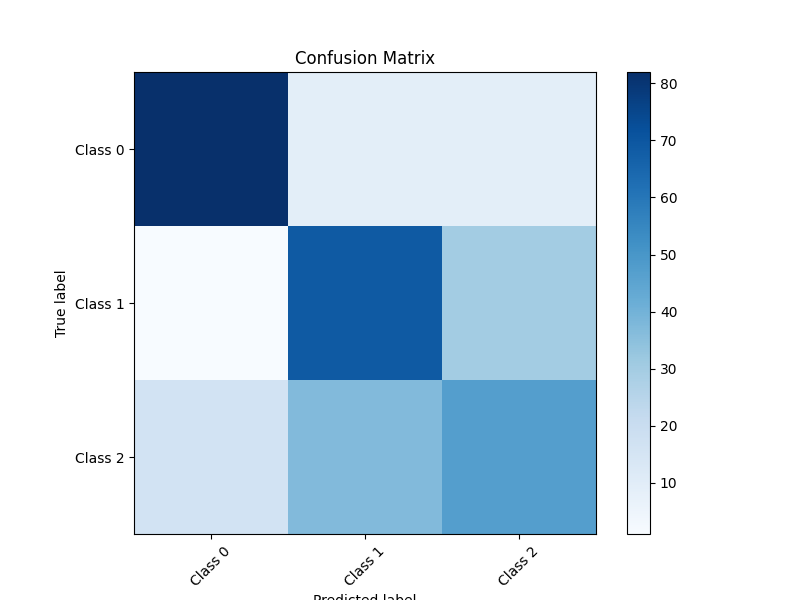
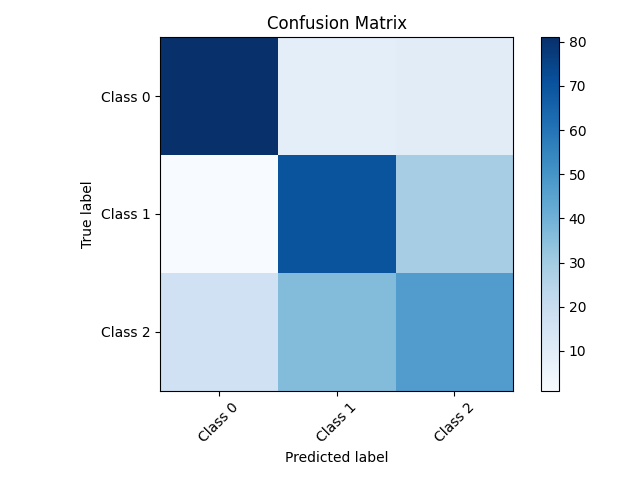
going sleep

diff --git a/homework 2/homework_model_modification.py b/homework 2/homework_model_modification.py
@@ -179,7 +179,6 @@ def plot_confusion_matrix(y_true, y_pred, classes):
     :param classes: Названия классов
     """
     cm = confusion_matrix(y_true, y_pred)
-    plt.figure(figsize=(8, 6))
     plt.imshow(cm, interpolation='nearest', cmap=plt.cm.Blues)
     plt.title("Confusion Matrix")
     plt.colorbar()
@@ -188,6 +187,7 @@ def plot_confusion_matrix(y_true, y_pred, classes):
     plt.yticks(tick_marks, classes)
     plt.xlabel('Predicted label')
     plt.ylabel('True label')
+    plt.tight_layout()
     plt.savefig('plots/confusion_matrix.png')
     plt.show()
 
